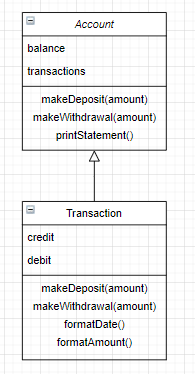
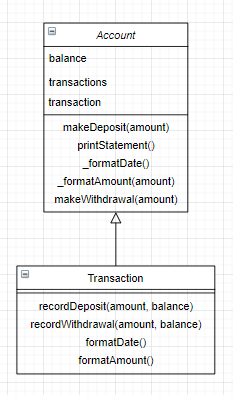
Add linter and update README

Changed region(s): [[0.0615, 0.0294, 0.9538, 0.9706]]

diff --git a/src/Account.js b/src/Account.js
@@ -1,14 +1,14 @@
-'use strict';
+"use strict";
 
 class Account {
   constructor( trans = new Transaction()) {
     this.balance = 0;
     this.transactions = [];
-    this.trans = trans;
+    this.transaction = trans;
   }
   makeDeposit(amount) {
     this.balance += amount;
-    let record = this.trans.recordDeposit(amount, this.balance)
+    let record = this.transaction.recordDeposit(amount, this.balance)
     this.transactions.unshift(record);
   }
   makeWithdrawal(amount) {

diff --git a/spec/TransactionSpec.js b/spec/TransactionSpec.js
@@ -3,12 +3,6 @@
 describe('Transaction', function() {
   let trans = new Transaction();
   
-  it('has a credit of 0', function() {
-    expect(trans.credit).toEqual(0);
-  })
-  it('has a debit of 0', function() {
-    expect(trans.debit).toEqual(0);
-  })
   describe('#recordDeposit', function() {
     it('returns an object with transaction details', function() {
       spyOn(Date, 'now').and.returnValue(1592226530185);

diff --git a/src/Transaction.js b/src/Transaction.js
@@ -2,8 +2,6 @@
 
 class Transaction {
   constructor() {
-    this.credit = 0;
-    this.debit = 0;
   }
   recordDeposit(amount, balance) {
     let record = {

diff --git a/README.md b/README.md
@@ -29,9 +29,20 @@ date || credit || debit || balance
 ```
 
 ## How to use
+Open `SpecRunner.html` in the browser. This will run all the tests.
+
+In the browser console, create a new instance of account: `let account = new Account()`.  
+
+Call `makeDeposit()`, `makeWithdrawal()` and `printStatement()` methods on the instance, like so:
+
+![project in console](images/snip.PNG)
 
 ## Domain Model
 ![domain model](images/class.PNG)
+
+There are two classes: account and its dependency: transaction. They have distinct responsibilities in the code. The user only interacts with the account class and its methods directly.
+
+I initialised the project with Javascript and Jasmine, and TDD'd all code. I started out by having only one class for the account, but seeing that a transaction object is created whenever a deposit or withdrawal is done, I abstracted out the transaction.
 
 ## Flow diagram
 ![flow diagram](images/flow.PNG)
